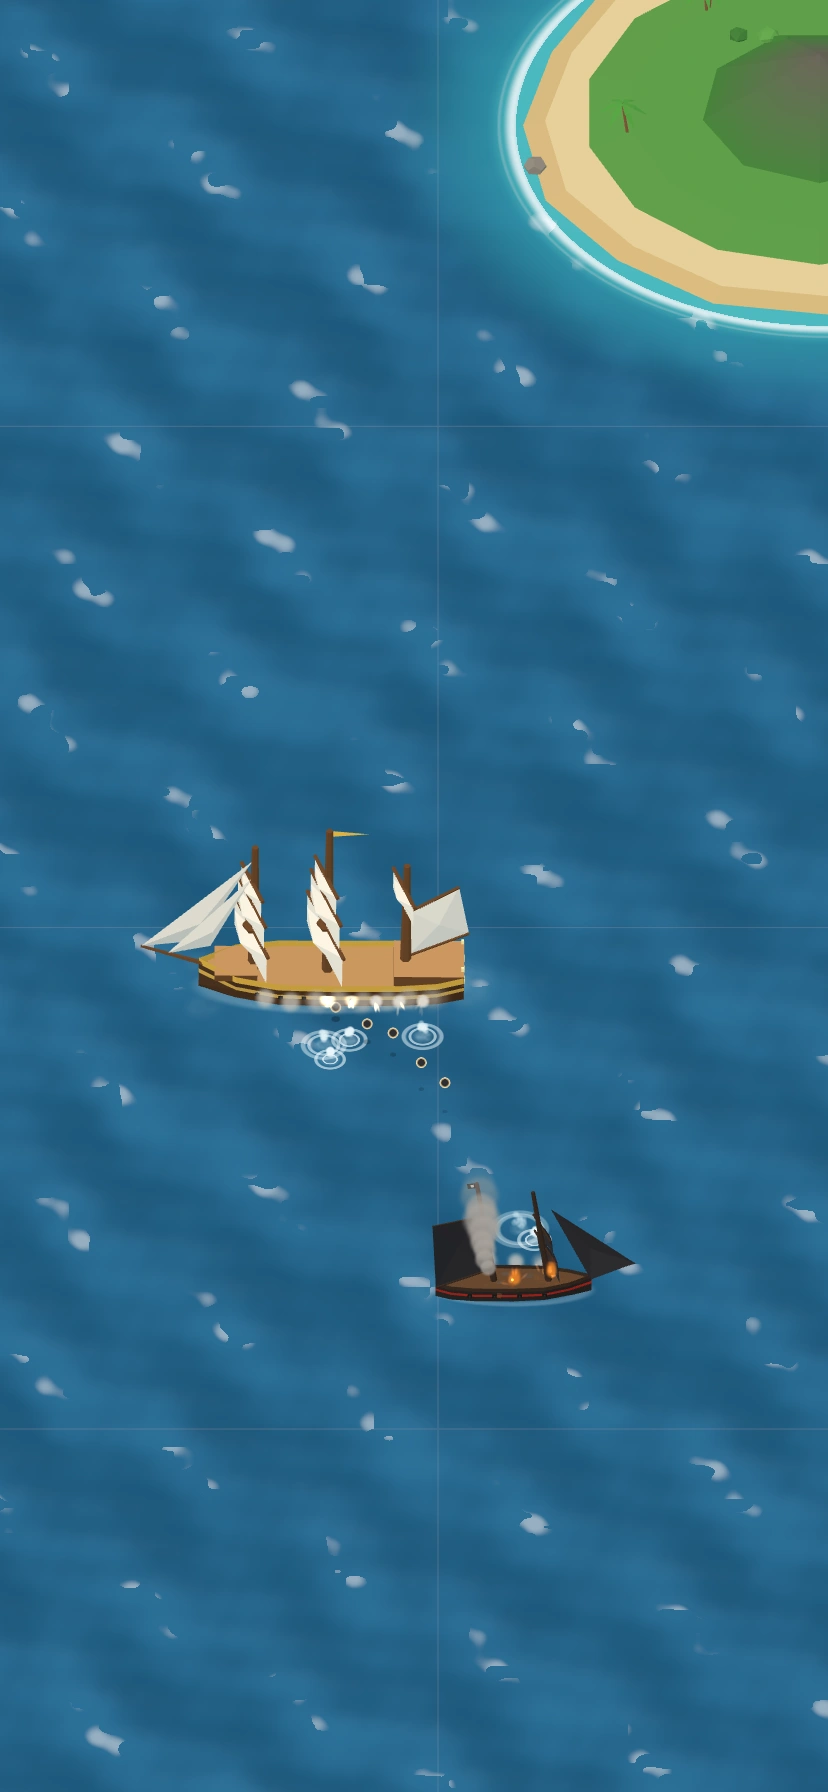
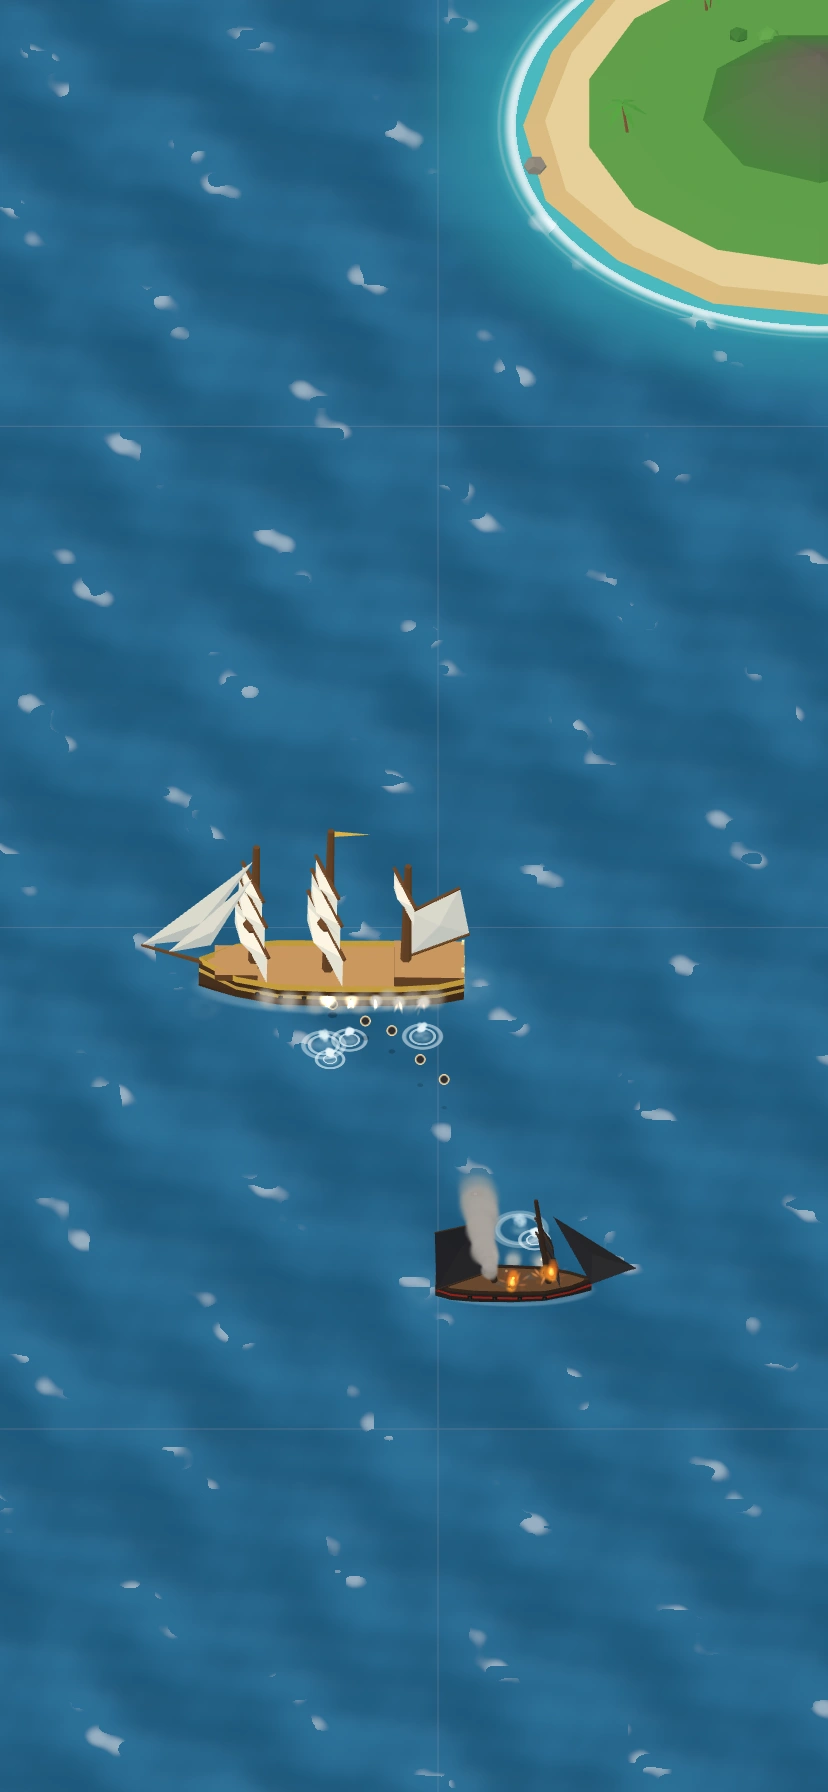
feat(vfx): keep damage smoke and fire at full rate on mobile
D32: mobile and low quality no longer halve the damage smoke and fire
emission; instead smoke is capped at 12 ships and fire at 4, ranked by
distance to the focus, without per-frame allocations. The landing hero
is regenerated because its mobile capture runs with runtime.mobile.

D35: the flame pixel minimum is min(10, 0.22·L·ppm) for the body and
min(5, 0.11·L·ppm) for the core, so the sloop on 390x844 with cannon N3
drops to 8 px and its fire covers 15.4-16.2 % of the hull (limit 20 %).

diff --git a/src/client/runtime.ts b/src/client/runtime.ts
@@ -14,7 +14,7 @@ import { createOceanGeometry, createOceanMaterial } from './models/ocean-materia
 import { measureSailVisibility, measureShipValues, SailVisibility, ShipValues } from './models/sail-visibility';
 import { createShipMaterial, getShipModel, LOD_PX, ShipMaterial, ShipModel } from './models/ship-geometry';
 import { FloatingTextLayer, LabelLayer, LabelTarget, OverlayHost, ReloadState, ScreenPoint } from './overlays';
-import { Effects, RENDER_ORDER, rgba } from './vfx/effects';
+import { DAMAGE_FX, Effects, RENDER_ORDER, rgba } from './vfx/effects';
 import { makeRing, RING_MODE, RingSpec } from './vfx/rings';
 import { VolleyRandom, volleySide } from './vfx/volley';
 import { damageScene, heroScene, SceneName, showcaseScene, standardScene, SyntheticSource } from './synthetic-scene';
@@ -102,6 +102,7 @@ interface ShipView extends LabelTarget {
   lastHp: number;
   repairGain: number;
   repairClock: number;
+  smokeSlot: boolean;
   fireSlot: boolean;
 }
 
@@ -158,6 +159,10 @@ export class VfxDirector {
   private readonly volleys: VolleyRecord[] = [];
   private readonly v = new THREE.Vector3();
   private readonly fireCandidates: ShipView[] = [];
+  private readonly smokeCandidates: ShipView[] = [];
+  // Orden por distancia al centro de la pantalla (los topes de humo y fuego); creado una vez, sin asignar por frame
+  private readonly byFocus = (a: ShipView, b: ShipView) =>
+    Math.hypot(a.ship.x - this.rt.focusX, a.ship.z - this.rt.focusZ) - Math.hypot(b.ship.x - this.rt.focusX, b.ship.z - this.rt.focusZ);
   private readonly random = new VolleyRandom(); // reparto sembrado de cada andanada (D3)
 
   constructor(private readonly rt: GameRuntime) {
@@ -416,17 +421,24 @@ export class VfxDirector {
   updateShips(now: number, dt: number): void {
     const rt = this.rt;
     const fx = rt.effects;
-    const rate = rt.mobile || rt.lowQuality ? 0.5 : 1;
+    // Móvil y calidad baja (§0.4): tasas × 0,5 y estela × 0,7, salvo el humo y el fuego de vida baja, que van con la
+    // tasa y la vida completas (D32); a cambio, humo en ≤ 12 barcos y fuego en ≤ 4
+    const low = rt.mobile || rt.lowQuality;
+    const rate = low ? 0.5 : 1;
     const lifeScale = rt.mobile ? 0.7 : 1;
     const contact = fx.contact;
     contact.begin();
 
-    // Fuego en ≤ 8 barcos a la vez (móvil 4): los más cercanos al centro de la pantalla
-    const maxFire = rt.mobile || rt.lowQuality ? 4 : 8;
+    // Humo y fuego en los barcos más cercanos al centro de la pantalla: fuego ≤ 8 (4) y humo sin tope (≤ 12)
+    const maxFire = DAMAGE_FX.fireShips[low ? 1 : 0];
+    const maxSmoke = DAMAGE_FX.smokeShips[low ? 1 : 0];
     const cands = this.fireCandidates;
+    const smokers = this.smokeCandidates;
     cands.length = 0;
+    smokers.length = 0;
     for (const view of rt.views.values()) {
       view.fireSlot = false;
+      view.smokeSlot = false;
       const s = view.ship;
       const ratio = s.maxHp > 0 ? s.hp / s.maxHp : 1;
       if (view.fire) {
@@ -436,13 +448,12 @@ export class VfxDirector {
         if (ratio > 0.53 && s.state === 'alive') view.smoke = false;
       } else if (ratio <= 0.5 && s.state === 'alive') view.smoke = true;
       if (view.fire && s.state !== 'dead') cands.push(view);
+      if (view.smoke && s.state !== 'dead') smokers.push(view);
     }
-    if (cands.length > maxFire) {
-      const cx = rt.focusX;
-      const cz = rt.focusZ;
-      cands.sort((a, b) => Math.hypot(a.ship.x - cx, a.ship.z - cz) - Math.hypot(b.ship.x - cx, b.ship.z - cz));
-    }
+    if (cands.length > maxFire) cands.sort(this.byFocus);
     for (let i = 0; i < Math.min(maxFire, cands.length); i++) cands[i].fireSlot = true;
+    if (smokers.length > maxSmoke) smokers.sort(this.byFocus);
+    for (let i = 0; i < Math.min(maxSmoke, smokers.length); i++) smokers[i].smokeSlot = true;
 
     for (const view of rt.views.values()) {
       const s = view.ship;
@@ -486,9 +497,9 @@ export class VfxDirector {
 
       // Humo (≤ 50 %) y fuego (≤ 25 %) con histéresis; siguen encendidos mientras se hunde
       const dense = view.fire;
-      if (view.smoke && s.state !== 'dead' && shown) {
-        // 3/s (≤ 50 %) o 6/s denso (≤ 25 %) con vida 3,4 s: ≤ 11 y ≤ 21 vivas por barco (VFX §6, D20)
-        view.smokeAcc += dt * (dense ? 6 : 3) * rate;
+      if (view.smoke && view.smokeSlot && s.state !== 'dead' && shown) {
+        // 3/s (≤ 50 %) o 6/s denso (≤ 25 %) con vida 3,4 s: ≤ 11 y ≤ 21 vivas por barco (VFX §6, D20), también en móvil
+        view.smokeAcc += dt * (dense ? DAMAGE_FX.denseSmokeRate : DAMAGE_FX.smokeRate);
         while (view.smokeAcc >= 1) {
           view.smokeAcc -= 1;
           this.v.copy(view.model.sockets.smoke).applyMatrix4(view.mesh.matrix);
@@ -497,11 +508,11 @@ export class VfxDirector {
       }
       if (view.fire && view.fireSlot && shown) {
         const ratio = s.hp / Math.max(1, s.maxHp);
-        const sockets = ratio <= 0.12 ? 3 : 2;
+        const sockets = ratio <= 0.12 ? DAMAGE_FX.fireSockets : 2;
         // Por socket: 12 cuerpos de llama/s (P_ALPHA), 6 núcleos/s y 2 brasas/s (P_ADD); vivos ≤ 20, ≤ 8 y ≤ 7 (D21)
-        view.fireAcc += dt * 12 * rate;
-        view.coreAcc += dt * 6 * rate;
-        view.emberAcc += dt * 2 * rate;
+        view.fireAcc += dt * DAMAGE_FX.flameRate;
+        view.coreAcc += dt * DAMAGE_FX.coreRate;
+        view.emberAcc += dt * DAMAGE_FX.emberRate;
         while (view.fireAcc >= 1 || view.coreAcc >= 1 || view.emberAcc >= 1) {
           const kind = view.fireAcc >= 1 ? 0 : view.coreAcc >= 1 ? 1 : 2;
           if (kind === 0) view.fireAcc -= 1;
@@ -1269,7 +1280,7 @@ export class GameRuntime implements OverlayHost {
       smoke: false, fire: false, smokeAcc: 0, fireAcc: 0, coreAcc: 0, emberAcc: 0, repairAcc: 0, chipAcc: 0, wakeDist: 0, wakeCount: 0,
       lastX: ship.x, lastZ: ship.z, hitAt: -Infinity, lastDamagedAt: -Infinity, heel: 1, emergeAt: -Infinity, sinkFx: false,
       sinkRingAcc: 0, sprayAcc: 0, debris: false, fireUnder: [false, false, false], shieldEnd: -Infinity, wasProtected: false,
-      lastHp: ship.hp, repairGain: 0, repairClock: 0, fireSlot: false
+      lastHp: ship.hp, repairGain: 0, repairClock: 0, smokeSlot: false, fireSlot: false
     };
   }
 

diff --git a/src/client/vfx/effects.ts b/src/client/vfx/effects.ts
@@ -9,10 +9,25 @@ import { RingLayer } from './rings';
 // renderOrder (§0.2): océano 0 → P_WATER 1 → P_CONTACT 2 → islas 3 → RINGS 4 → barcos 5 → sombras 6 → balas 7 → P_ALPHA 8 → P_ADD 9
 export const RENDER_ORDER = { ocean: 0, water: 1, contact: 2, islands: 3, rings: 4, ships: 5, shadows: 6, balls: 7, alpha: 8, add: 9 };
 
-const POOLS = {
+export const POOLS = {
   desktop: { add: 384, alpha: 1280, water: 768, balls: 96, contact: 64, rings: 64 }, // P_ALPHA con los cuerpos de llama (D21)
   mobile: { add: 192, alpha: 640, water: 384, balls: 64, contact: 64, rings: 64 }
 };
+
+// §6 humo y fuego de vida baja: tasas por socket (1/s) y vidas (s) (D20, D21), y barcos que los llevan a la vez, los
+// más cercanos al centro: [normal, móvil y calidad baja]. En móvil y calidad baja no se recortan la tasa ni la vida,
+// porque son información de daño (AC-104); a cambio, humo en ≤ 12 barcos y fuego en ≤ 4 (§0.4, D32)
+export const DAMAGE_FX = {
+  smokeRate: 3, denseSmokeRate: 6, smokeLife: 3.4,
+  flameRate: 12, coreRate: 6, emberRate: 2, flameLife: 0.55, coreLife: 0.4, emberLife: 1.2, fireSockets: 3,
+  smokeShips: [Infinity, 12], fireShips: [8, 4]
+} as const;
+
+// Mínimo en px del cuerpo de llama (10) y del núcleo (5), pero nunca más de ≈ 1/4 de la eslora en pantalla
+// (0,22·L·ppm y 0,11·L·ppm): en 390×844 con N3 la Balandra baja a 8 px y su fuego deja de taparle el casco (Q24, D35)
+export function flamePxMin(length: number, ppm: number, core = false): number {
+  return core ? Math.min(5, 0.11 * length * ppm) : Math.min(10, 0.22 * length * ppm);
+}
 
 const WIND = new THREE.Vector3(0.5, 0, -0.5); // m/s (VFX §2); el humo de daño usa × 1,2 = (0,6, 0, −0,6)
 
@@ -241,7 +256,7 @@ export class Effects {
   // de 0,07·h → 0,25·h (claro) o 0,10·h → 0,32·h (denso), × (1 ± 0,15) para que la columna no sea un collar de cuentas
   damageSmoke(x: number, y: number, z: number, dense: boolean, mastHeight: number): void {
     const k = mastHeight * (1 + rand(-0.15, 0.15));
-    const s = this.spec(x + rand(-0.3, 0.3), y, z + rand(-0.3, 0.3), 3.4, (dense ? 0.1 : 0.07) * k, (dense ? 0.32 : 0.25) * k, dense ? C.denseSmoke : C.smoke, SHAPE.puff);
+    const s = this.spec(x + rand(-0.3, 0.3), y, z + rand(-0.3, 0.3), DAMAGE_FX.smokeLife, (dense ? 0.1 : 0.07) * k, (dense ? 0.32 : 0.25) * k, dense ? C.denseSmoke : C.smoke, SHAPE.puff);
     s.vy = 0.22 * mastHeight;
     s.gravity = 0.035 * mastHeight;
     s.wind = 1.2;
@@ -249,7 +264,7 @@ export class Effects {
     this.alpha.emit(s);
   }
 
-  // Cuerpo de la llama (D21): de 3,0 a 1,2 m × L/24 (mínimo 10 px; final 1,2 m en D29, antes 0,9: con el encuadre N1
+  // Cuerpo de la llama (D21): de 3,0 a 1,2 m × L/24 (mínimo flamePxMin, D35; final 1,2 m en D29, antes 0,9: con el encuadre N1
   // el mínimo en px ya no inflaba el final y el fuego del Mercante quedaba en el límite), nacida en un punto al azar de la elipse de
   // cubierta del socket, de semiejes 0,06·L (eslora) × 0,15·B (manga). Antes nacían a ±0,3 m y se apilaban en un óvalo.
   // Forma 8 (D24): con el sesgo del humo, para que las cuadras braceadas propias no la tapen (Q20)
@@ -259,23 +274,23 @@ export class Effects {
     const along = 0.06 * length * d * Math.cos(a);
     const across = 0.15 * beam * d * Math.sin(a);
     const k = length / 24;
-    const s = this.spec(x + Math.sin(heading) * along + Math.cos(heading) * across, y, z + Math.cos(heading) * along - Math.sin(heading) * across, 0.55, 3.0 * k, 1.2 * k, C.flame, SHAPE.damageFlame);
+    const s = this.spec(x + Math.sin(heading) * along + Math.cos(heading) * across, y, z + Math.cos(heading) * along - Math.sin(heading) * across, DAMAGE_FX.flameLife, 3.0 * k, 1.2 * k, C.flame, SHAPE.damageFlame);
     s.vy = 1.8 + rand(-0.4, 0.4);
-    s.pxMin = 10;
+    s.pxMin = flamePxMin(length, this.ppm);
     this.alpha.emit(s);
   }
 
-  // Núcleo aditivo (forma 8) en el centro del socket: la mitad del tamaño de la llama (mínimo 5 px) y vida 0,4 s (D21)
+  // Núcleo aditivo (forma 8) en el centro del socket: de 1,5 a 0,6 m × L/24 (mínimo flamePxMin, D35) y vida 0,4 s (D21, D31)
   flameCore(x: number, y: number, z: number, length: number): void {
     const k = length / 24;
-    const s = this.spec(x, y, z, 0.4, 1.5 * k, 0.6 * k, C.flameCore, SHAPE.damageFlame);
+    const s = this.spec(x, y, z, DAMAGE_FX.coreLife, 1.5 * k, 0.6 * k, C.flameCore, SHAPE.damageFlame);
     s.vy = 1.8 + rand(-0.4, 0.4);
-    s.pxMin = 5;
+    s.pxMin = flamePxMin(length, this.ppm, true);
     this.add.emit(s);
   }
 
   ember(x: number, y: number, z: number): void {
-    const s = this.spec(x + rand(-0.4, 0.4), y, z + rand(-0.4, 0.4), 1.2, 0.12, 0.12, C.ember, SHAPE.disc);
+    const s = this.spec(x + rand(-0.4, 0.4), y, z + rand(-0.4, 0.4), DAMAGE_FX.emberLife, 0.12, 0.12, C.ember, SHAPE.disc);
     s.vx = rand(-0.4, 0.4);
     s.vy = 3;
     s.vz = rand(-0.4, 0.4);

diff --git a/e2e/damage-vfx.spec.ts b/e2e/damage-vfx.spec.ts
@@ -1,0 +1,72 @@
+// Humo y fuego de vida baja en móvil (VFX-SPEC §0.4 y §6, D32): son información de daño (AC-104), así que no se
+// recortan con la calidad baja (tasa y vida completas). A cambio, humo en ≤ 12 barcos y fuego en ≤ 4, los más cercanos
+// al centro de la pantalla. Escenas sintéticas del runtime (src/client/synthetic-scene.ts) en el proyecto móvil.
+import { expect, test } from '@playwright/test';
+import { enterGame } from './helpers';
+
+const PUFF = 7; // SHAPE.puff: bocanada de humo de daño (P_ALPHA)
+const FLAME = 8; // SHAPE.damageFlame: cuerpo de llama en P_ALPHA (el núcleo va en P_ADD)
+
+test.describe('Humo y fuego de daño en móvil', () => {
+  test('D32 @mobile: el Mercante al 20 % mantiene la tasa completa (≥ 19 bocanadas y ≥ 12 llamas vivas, no la mitad)', async ({ page }) => {
+    await enterGame(page);
+    const mobile = await page.evaluate(() => {
+      const rt = window.__SEA_BATTLE__!.runtime();
+      rt.setCameraPreset('game');
+      rt.setZoomLevel(1);
+      const scene = rt.startScene('damage');
+      for (const id of ['d-sloop', 'd-frigate']) scene.getShip(id)!.hp = scene.getShip(id)!.maxHp;
+      const m = scene.getShip('d-merchant')!;
+      m.hp = Math.round(0.2 * m.maxHp); // humo denso (6/s) y fuego en 2 sockets (12/s cada uno)
+      return rt.mobile;
+    });
+    expect(mobile).toBe(true);
+    await page.waitForTimeout(4500); // > 3,4 s de vida del humo: régimen estable
+
+    // Con tasa completa: 6/s × 3,4 s ≈ 20 bocanadas y 2 × 12/s × 0,55 s ≈ 13 llamas; con × 0,5 serían ≈ 10 y ≈ 7
+    const samples: { puffs: number; flames: number }[] = [];
+    for (let i = 0; i < 10; i++) {
+      samples.push(await page.evaluate(([puff, flame]) => {
+        const fx = window.__SEA_BATTLE__!.runtime().effects;
+        return { puffs: fx.alpha.live(fx.time, puff), flames: fx.alpha.live(fx.time, flame) };
+      }, [PUFF, FLAME]));
+      await page.waitForTimeout(150);
+    }
+    const min = (k: 'puffs' | 'flames') => Math.min(...samples.map((s) => s[k]));
+    const max = (k: 'puffs' | 'flames') => Math.max(...samples.map((s) => s[k]));
+    console.log(`D32 móvil: bocanadas vivas ${min('puffs')}–${max('puffs')} · llamas vivas ${min('flames')}–${max('flames')} (10 muestras)`);
+    expect(min('puffs')).toBeGreaterThanOrEqual(19);
+    expect(max('puffs')).toBeLessThanOrEqual(21);
+    expect(min('flames')).toBeGreaterThanOrEqual(12);
+    expect(max('flames')).toBeLessThanOrEqual(14);
+    await page.evaluate(() => window.__SEA_BATTLE__!.runtime().stopScene());
+  });
+
+  test('D32 @mobile: en la escena estándar, humo en ≤ 12 barcos y fuego en ≤ 4, los más cercanos al centro', async ({ page }) => {
+    await enterGame(page);
+    await page.evaluate(() => {
+      const rt = window.__SEA_BATTLE__!.runtime();
+      rt.setCameraPreset('game');
+      rt.setZoomLevel(1);
+      rt.startScene('standard', { cannonLevel: 3 });
+    });
+    await page.waitForTimeout(1000);
+    const views = await page.evaluate(() => {
+      const rt = window.__SEA_BATTLE__!.runtime();
+      return [...rt.views.values()].map((v) => ({
+        id: v.id, smoke: v.smoke, fire: v.fire, smokeSlot: v.smokeSlot, fireSlot: v.fireSlot,
+        d: Math.hypot(v.ship.x - rt.focusX, v.ship.z - rt.focusZ)
+      }));
+    });
+    const check = (lit: typeof views, slotted: typeof views, cap: number, label: string) => {
+      const out = lit.filter((v) => !slotted.includes(v));
+      console.log(`D32 móvil: ${label} en ${lit.length} barcos → con ranura ${slotted.length} (tope ${cap}) · distancia máx. con ranura ${Math.max(...slotted.map((v) => v.d)).toFixed(1)} m · mín. sin ranura ${out.length ? Math.min(...out.map((v) => v.d)).toFixed(1) : '—'} m`);
+      expect(lit.length).toBeGreaterThan(cap); // la escena tiene que forzar el tope
+      expect(slotted.length).toBe(cap);
+      expect(Math.max(...slotted.map((v) => v.d))).toBeLessThanOrEqual(Math.min(...out.map((v) => v.d)));
+    };
+    check(views.filter((v) => v.smoke), views.filter((v) => v.smoke && v.smokeSlot), 12, 'humo');
+    check(views.filter((v) => v.fire), views.filter((v) => v.fire && v.fireSlot), 4, 'fuego');
+    await page.evaluate(() => window.__SEA_BATTLE__!.runtime().stopScene());
+  });
+});

diff --git a/src/client/vfx/__tests__/damage-budget.test.ts b/src/client/vfx/__tests__/damage-budget.test.ts
@@ -1,0 +1,62 @@
+// §0.4 y §6 (D32): en móvil y en calidad baja, el humo y el fuego de vida baja van con la tasa y la vida completas,
+// así que el tope es de barcos: humo en ≤ 12 y fuego en ≤ 4. Lo que vive a la vez tiene que caber en los pools móviles.
+// D35: el mínimo en px de la llama no pasa de ≈ 1/4 de la eslora en pantalla.
+import { computePpm0, frameRangeM } from '../../art';
+import { CANNON_LEVELS } from '../../../game/constants';
+import { SHIP_RECIPES } from '../../models/ship-geometry';
+import { DAMAGE_FX, flamePxMin, POOLS } from '../effects';
+
+// Máximo vivo por emisor con una tasa y una vida fijas: justo tras emitir quedan floor(tasa·vida) + 1 tandas
+const peak = (rate: number, life: number) => Math.floor(rate * life) + 1;
+
+describe('Presupuesto del humo y el fuego de vida baja en móvil (D32)', () => {
+  const [smokeShips, fireShips] = [DAMAGE_FX.smokeShips[1], DAMAGE_FX.fireShips[1]];
+  const smokePerShip = peak(DAMAGE_FX.denseSmokeRate, DAMAGE_FX.smokeLife); // humo denso (≤ 25 %), un socket
+  const flamesPerShip = DAMAGE_FX.fireSockets * peak(DAMAGE_FX.flameRate, DAMAGE_FX.flameLife); // ≤ 12 %: 3 sockets
+  const coresPerShip = DAMAGE_FX.fireSockets * peak(DAMAGE_FX.coreRate, DAMAGE_FX.coreLife);
+  const embersPerShip = DAMAGE_FX.fireSockets * peak(DAMAGE_FX.emberRate, DAMAGE_FX.emberLife);
+
+  test('topes: humo en ≤ 12 barcos y fuego en ≤ 4 en móvil y calidad baja; fuego en ≤ 8 y humo sin tope en normal', () => {
+    expect(DAMAGE_FX.smokeShips).toEqual([Infinity, 12]);
+    expect(DAMAGE_FX.fireShips).toEqual([8, 4]);
+  });
+
+  // §0.4 cuenta 12 × 21 + 4 × 20 = 332 con la media de cuerpos vivos (3 × 12 × 0,55 = 19,8); justo tras una tanda
+  // de los 3 sockets llegan a 21, y el pico es 12 × 21 + 4 × 21 = 336
+  test('P_ALPHA: 12 barcos con humo denso + 4 con llamas en 3 sockets caben en las 640 del pool móvil', () => {
+    expect(smokePerShip).toBe(21);
+    expect(flamesPerShip).toBe(21);
+    expect(smokeShips * smokePerShip + fireShips * flamesPerShip).toBeLessThanOrEqual(POOLS.mobile.alpha);
+  });
+
+  test('P_ADD: núcleos y brasas de los 4 barcos con fuego caben en las 192 del pool móvil', () => {
+    expect(fireShips * (coresPerShip + embersPerShip)).toBeLessThanOrEqual(POOLS.mobile.add);
+  });
+});
+
+// D35 (Q24): el mínimo en px del cuerpo de llama es min(10, 0,22·L·ppm) y el del núcleo min(5, 0,11·L·ppm)
+describe('Mínimo en px de la llama de daño (D35)', () => {
+  const ppm = (w: number, h: number, level: number) => computePpm0(w, h, frameRangeM(CANNON_LEVELS[level - 1].range));
+
+  test('L·ppm pequeño: el mínimo baja de 10 px (Balandra en 390×844: 9,9 px con N1 y 8,1 px con N3)', () => {
+    const L = SHIP_RECIPES.sloop.L;
+    expect(flamePxMin(L, ppm(390, 844, 1))).toBeCloseTo(9.91, 2);
+    expect(flamePxMin(L, ppm(390, 844, 3))).toBeCloseTo(8.05, 2);
+    expect(flamePxMin(L, ppm(390, 844, 3), true)).toBeCloseTo(4.03, 2);
+    expect(flamePxMin(L, 1)).toBeCloseTo(0.22 * L, 9); // nunca más de ≈ 1/4 de la eslora en pantalla
+  });
+
+  test('L·ppm grande: 10 px y 5 px, para todas las clases en escritorio con N1 y N3', () => {
+    for (const r of Object.values(SHIP_RECIPES)) {
+      for (const level of [1, 3]) {
+        expect(flamePxMin(r.L, ppm(1440, 900, level))).toBe(10);
+        expect(flamePxMin(r.L, ppm(1440, 900, level), true)).toBe(5);
+      }
+    }
+  });
+
+  test('390×844 con N3: solo la Balandra baja; Bergantín, Fragata, Pirata y Mercante siguen en 10 px', () => {
+    const changed = Object.entries(SHIP_RECIPES).filter(([, r]) => flamePxMin(r.L, ppm(390, 844, 3)) < 10).map(([id]) => id);
+    expect(changed).toEqual(['sloop']);
+  });
+});

diff --git a/src/client/vfx/particles.ts b/src/client/vfx/particles.ts
@@ -285,13 +285,13 @@ export class ParticlePool {
     this.mesh.visible = time < this.lastDeath;
   }
 
-  // Instancias vivas (contador de depuración, VFX-03)
-  live(time: number): number {
+  // Instancias vivas (contador de depuración, VFX-03); con shape, solo las de esa forma (QA de D32)
+  live(time: number, shape?: number): number {
     let n = 0;
     const count = Math.min(this.emitted, this.capacity);
     for (let i = 0; i < count; i++) {
       const t0 = this.arrays.aP0T0[i * 4 + 3];
-      if (time >= t0 && time <= this.deaths[i]) n++;
+      if (time >= t0 && time <= this.deaths[i] && (shape === undefined || this.arrays.aMisc[i * 4] === shape)) n++;
     }
     return n;
   }
